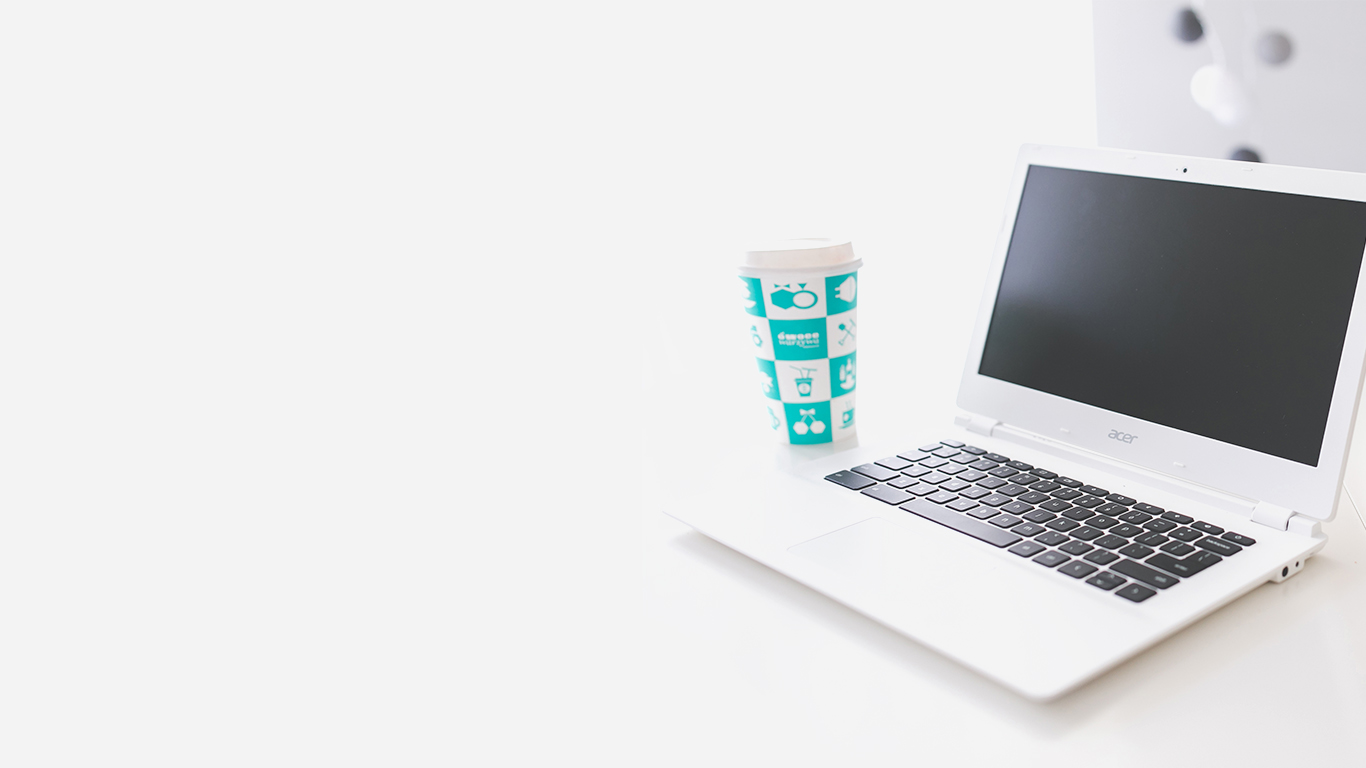
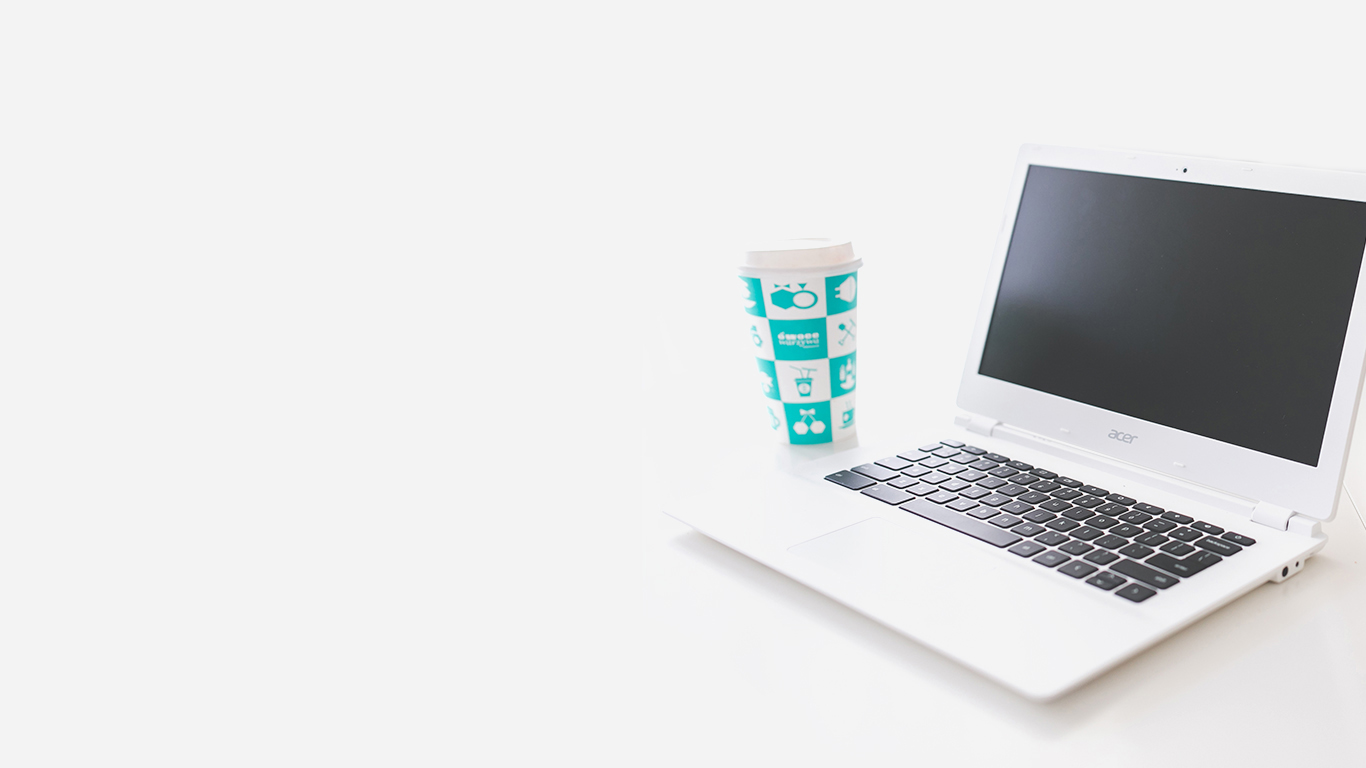
Updated PHILResources.html Background
Also cleaned up Resources page background

Changed region(s): [[0.8302, 0.0, 1.0, 0.25]]

diff --git a/pages/resources/PSILResources.html b/pages/resources/PSILResources.html
@@ -27,7 +27,7 @@
     <title>Designbox by rushone2010</title>
     <style>
       html {
-        background: url("../../images/bg12.jpg") no-repeat center center fixed;
+        background: url("../../images/bg14.jpg") no-repeat center center fixed;
         -webkit-background-size: cover;
         -moz-background-size: cover;
         -o-background-size: cover;
